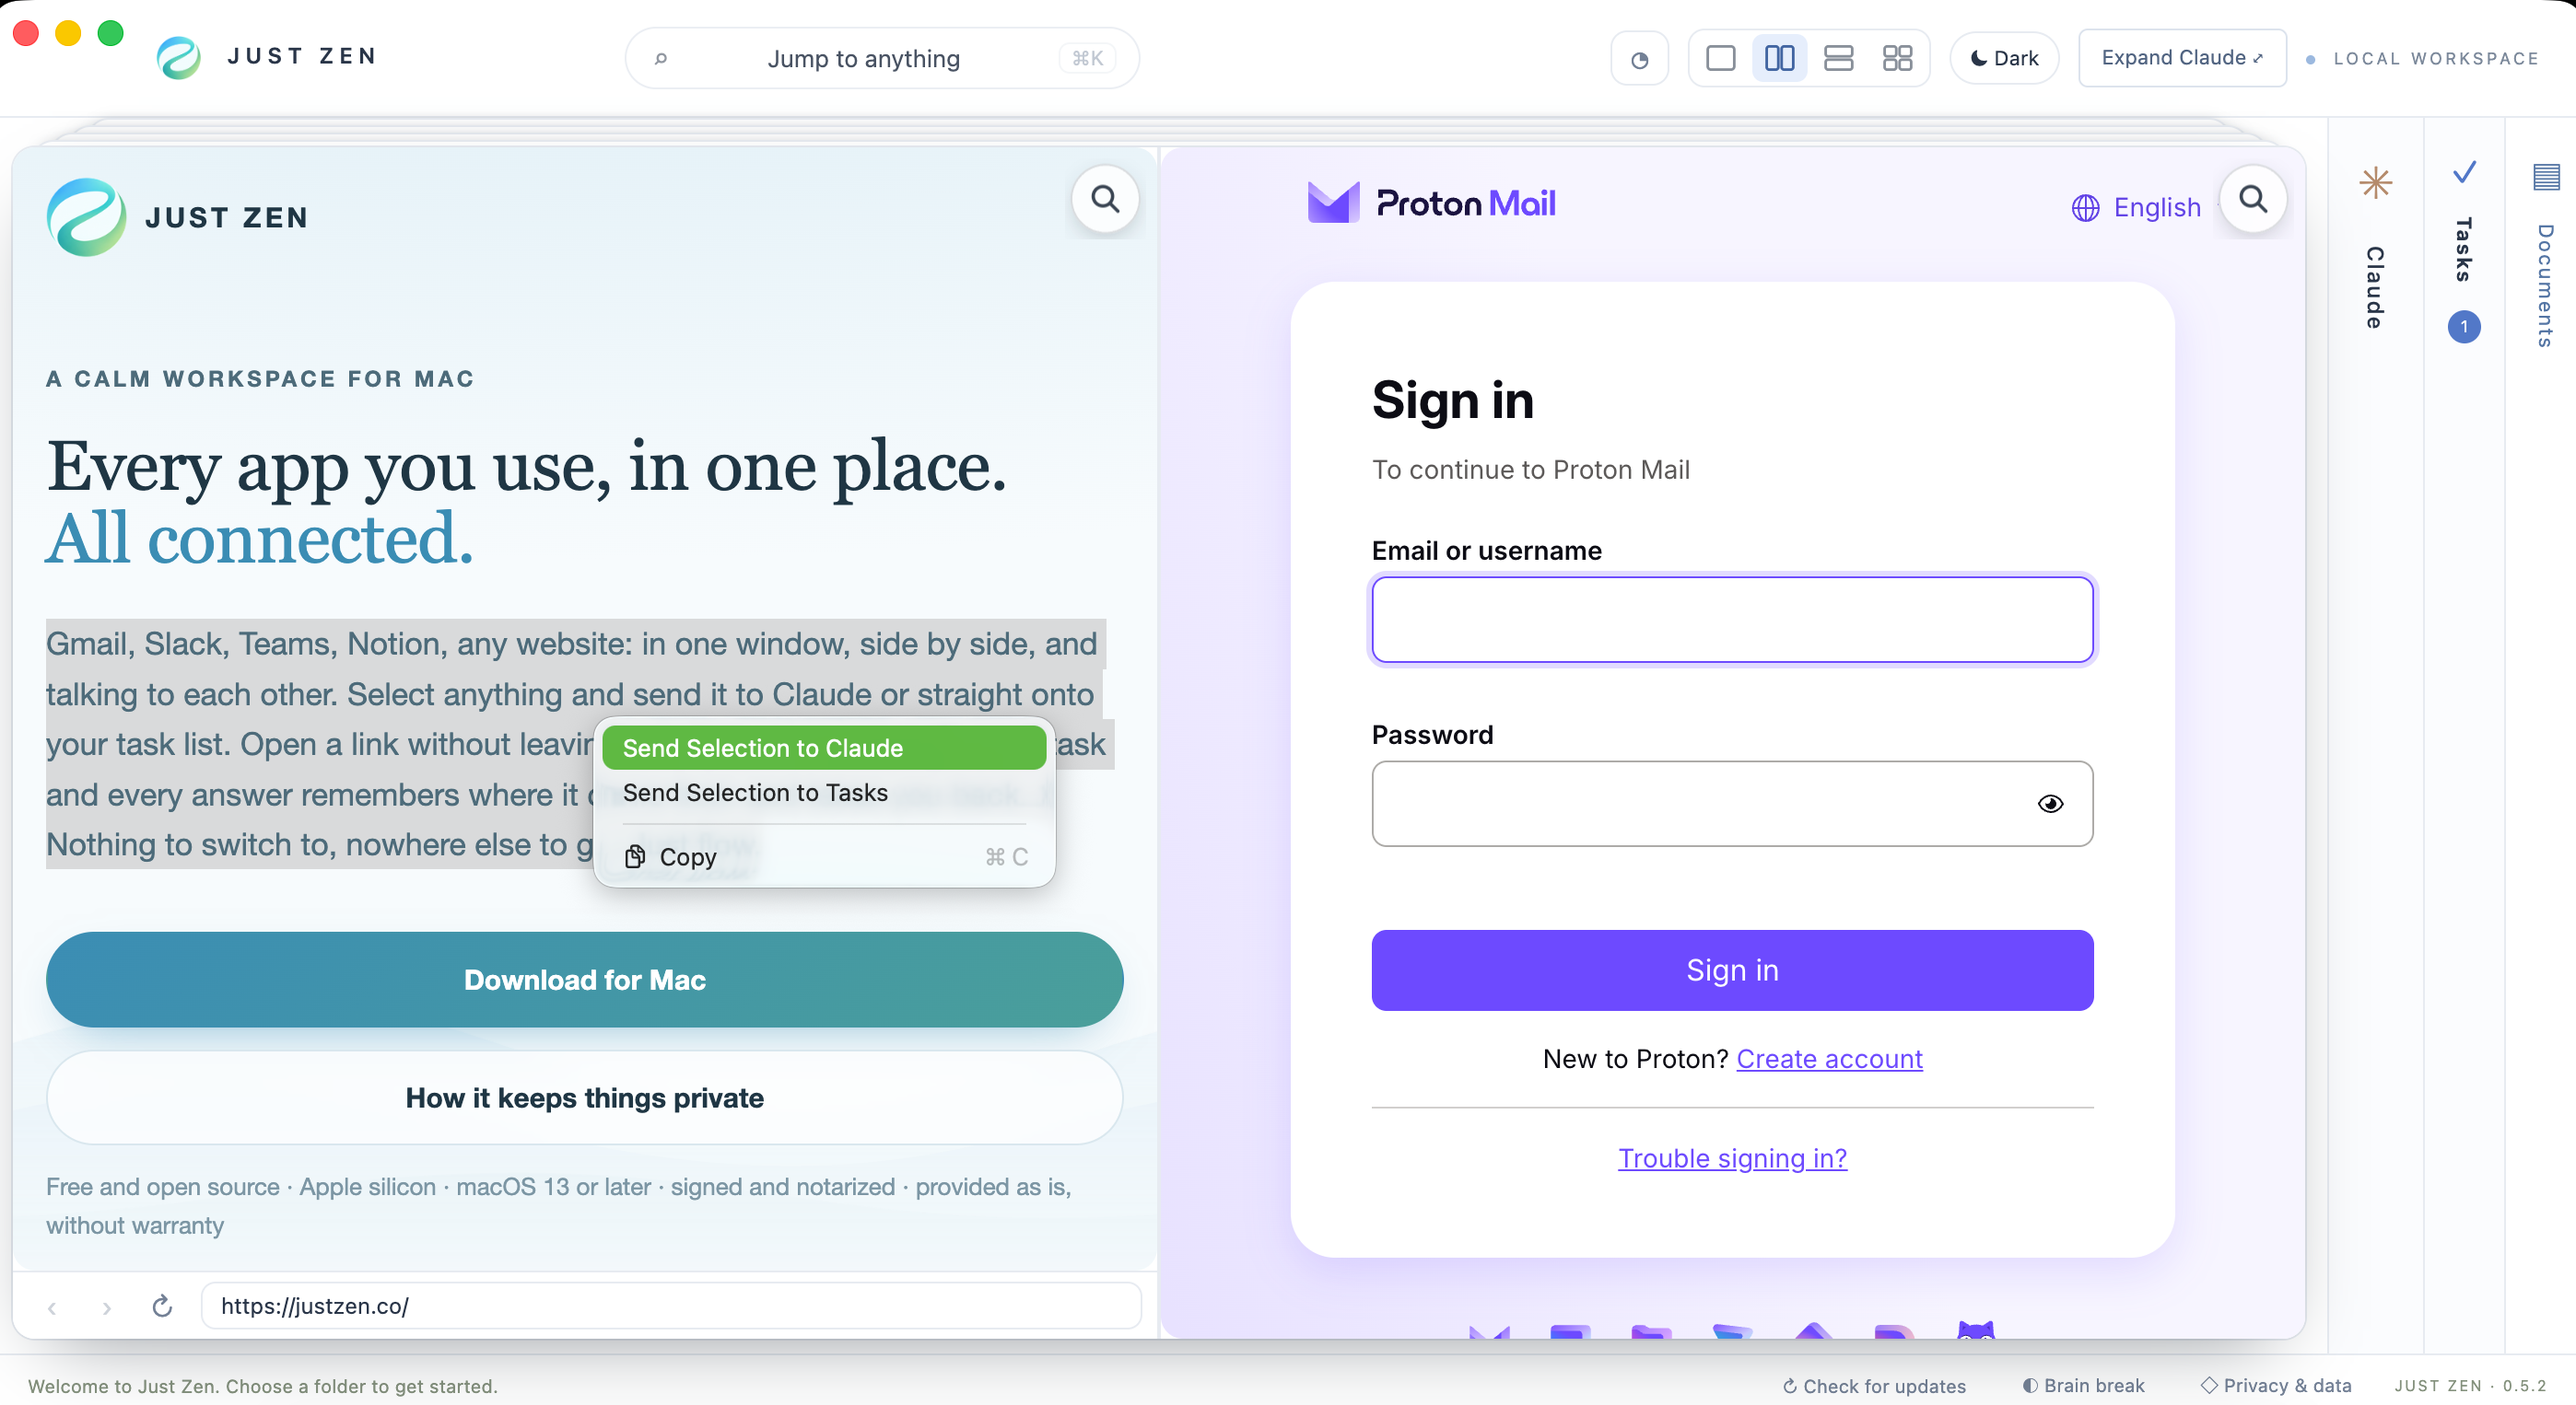
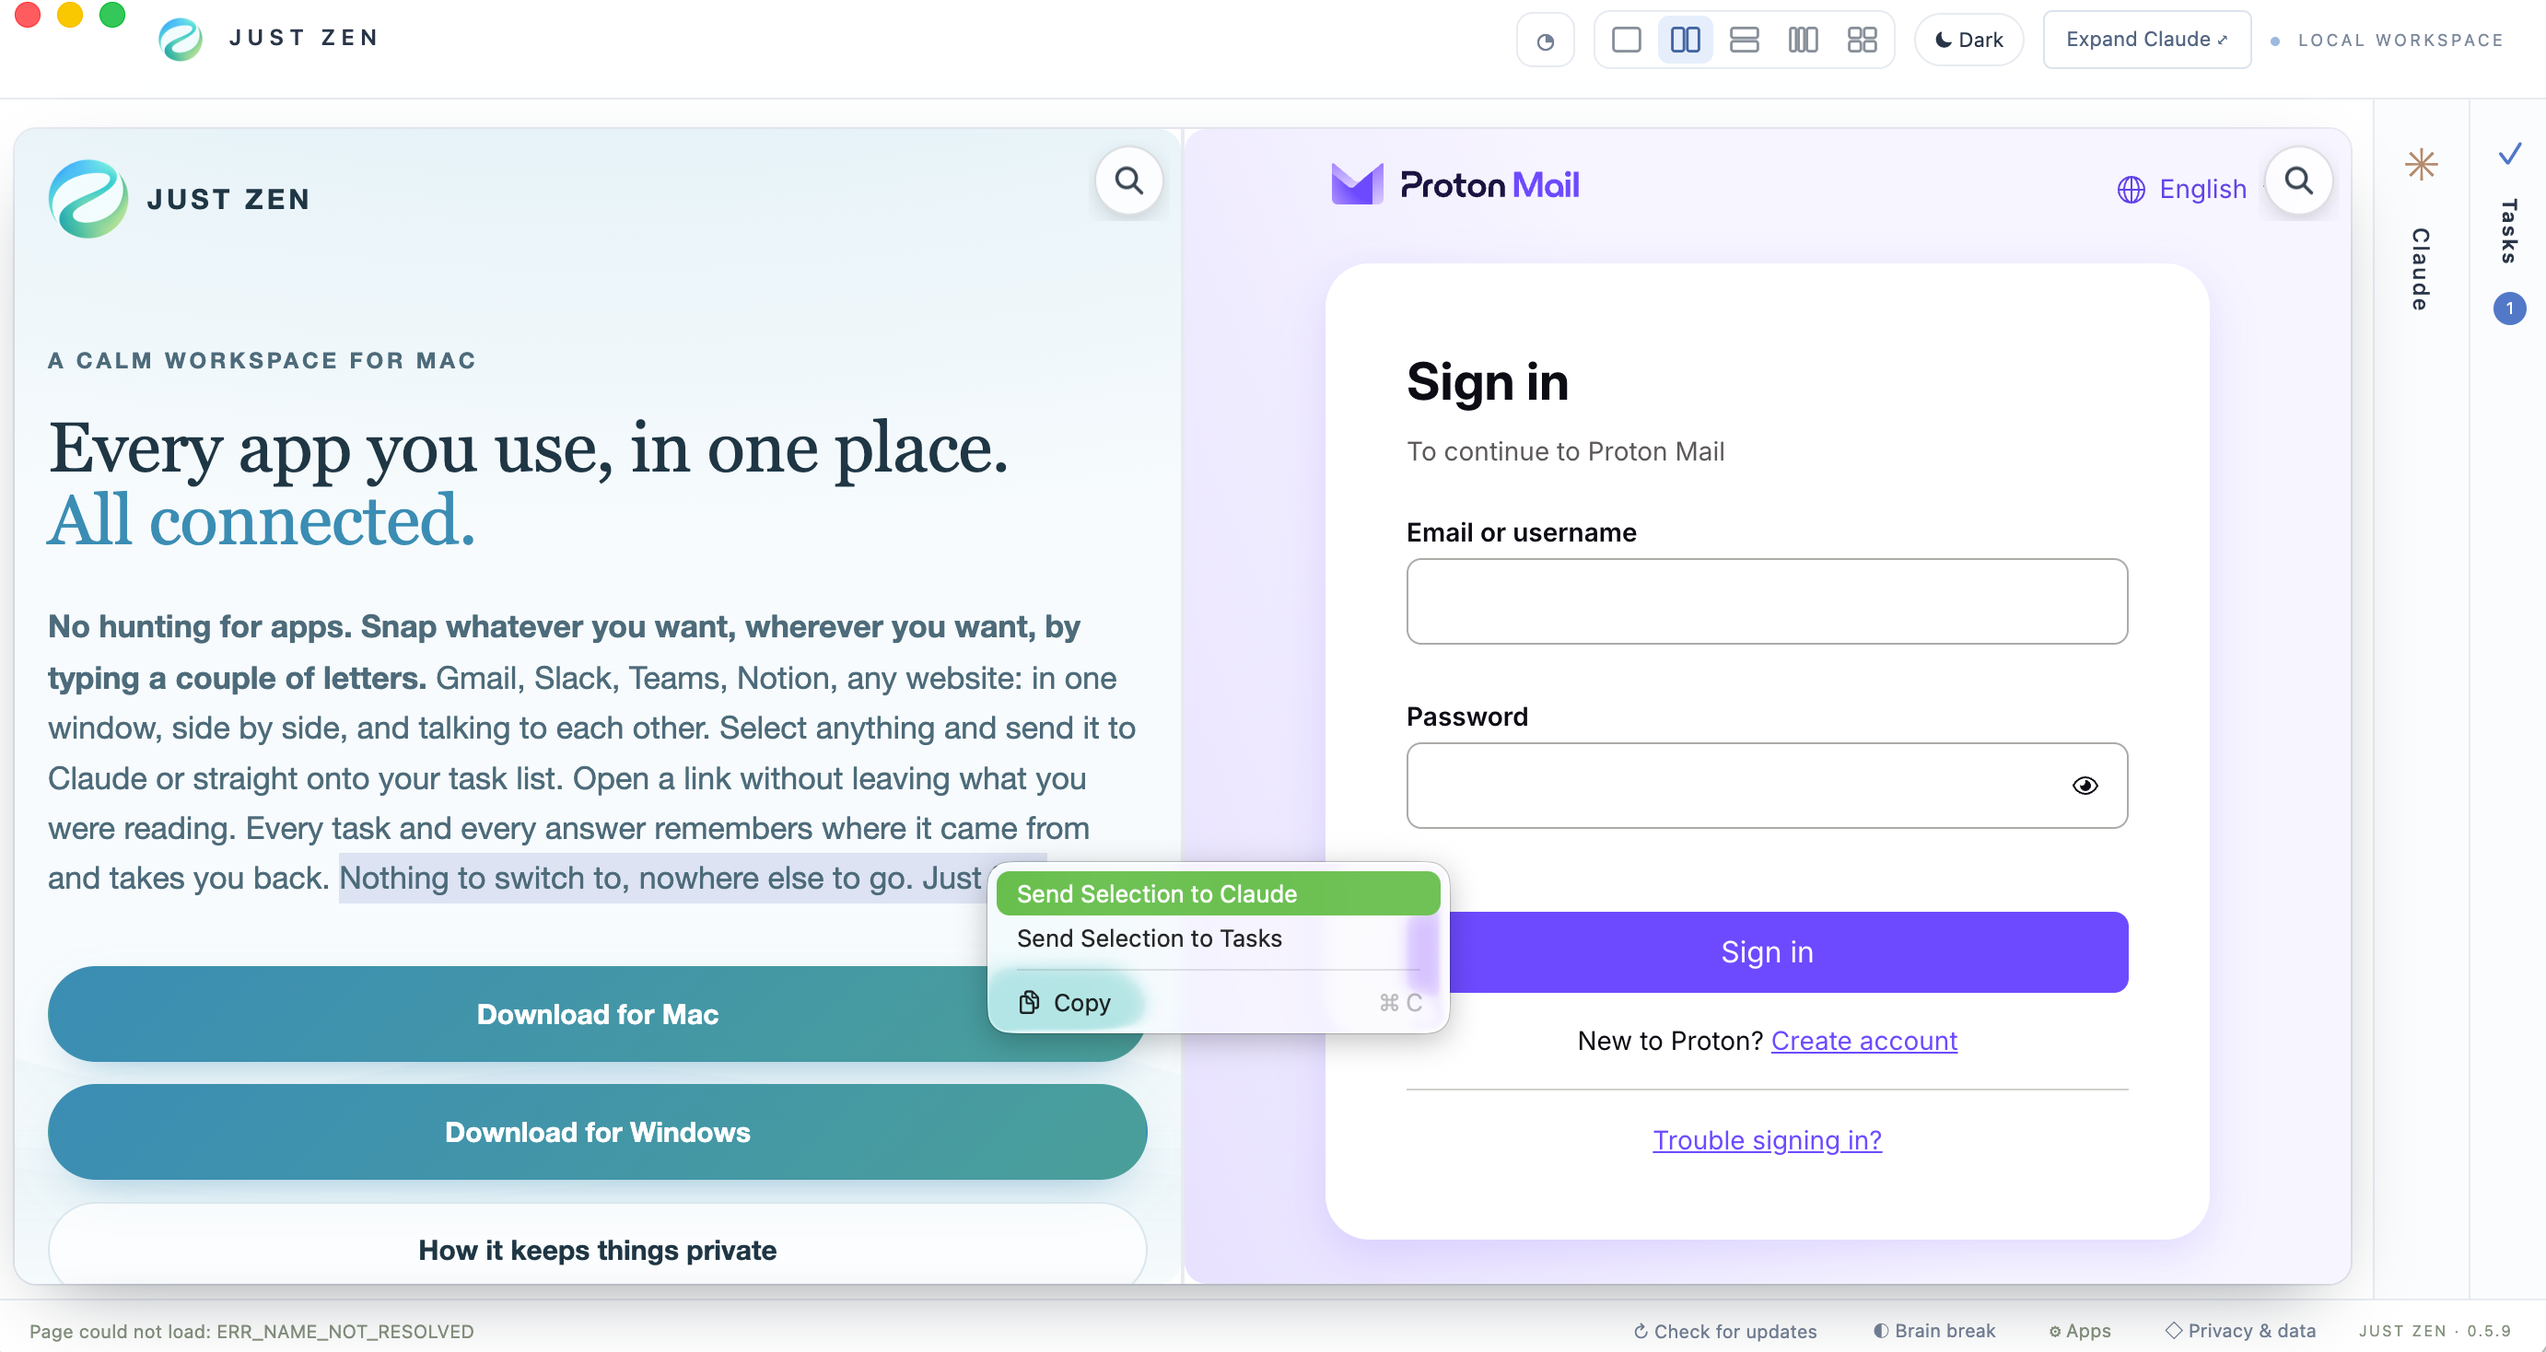
Landing page: new hero screenshot (two panes, Mac and Windows download buttons), tour regions retargeted

diff --git a/docs/index.html b/docs/index.html
@@ -38,7 +38,7 @@
   <div class="tour-head"><div class="tabs" role="tablist" aria-label="Parts of the window"></div></div>
   <div class="frame">
     <div class="bar"><i></i><i></i><i></i></div>
-    <div class="pic"><img src="hero.png?v=5" alt="Just Zen: two panes side by side, the justzen.co page on the left with text selected and a right-click menu offering Send Selection to Claude and Send Selection to Tasks, Proton Mail sign-in on the right, a search button in the corner of each pane, and the Claude, Tasks and Documents rails on the right" width="1398" height="763">
+    <div class="pic"><img src="hero.png?v=6" alt="Just Zen: two panes side by side, the justzen.co page on the left with text selected and a right-click menu offering Send Selection to Claude and Send Selection to Tasks, Proton Mail sign-in on the right, a search button in the corner of each pane, and the Claude and Tasks rails on the right" width="1382" height="734">
     <div class="spot" aria-hidden="true" hidden></div></div>
   </div>
   <div class="caption" aria-live="polite"><b></b><p></p></div>
@@ -47,14 +47,12 @@
 (()=>{
   // Regions are percentages of the screenshot, so the highlight lands on the same part at any size.
   const stops=[
-    ['Search, don\u2019t switch',{x:41.3,y:11,w:3.6,h:6.2},'No dock and no menus. Every pane has a ⌕ in its corner: type a couple of letters, press Enter, and the app snaps into that pane. New apps and websites are added from the same place.'],
-    ['Panes',{x:0.6,y:10.3,w:88.8,h:84.5},'One app, two side by side, two stacked, or four. Each pane has its own search, so you put whatever you want wherever you want, and each keeps its own tabs and login.'],
-    ['Splits',{x:65.9,y:1.8,w:9.2,h:4.6},'Split the window with one click, and save layouts you come back to: Inbox zero, Standup, Client A.'],
-    ['Browser panes',{x:0.6,y:90.6,w:44.3,h:4.4},'A browser pane keeps an address bar along its bottom edge. Every other app shows nothing but the app.'],
-    ['Send anywhere',{x:23,y:51,w:18.2,h:12.4},'Select text in any app and right-click: send it to Claude, or straight onto your task list. The task remembers where it came from.'],
-    ['Claude',{x:90.4,y:6.5,w:3.5,h:89},'Claude Code lives in the right-hand rail. Selected text lands there with one-click actions, and its replies can add tasks, draft messages into your apps and open links.'],
-    ['Tasks',{x:94,y:6.5,w:3.2,h:89},'Your task list slides out from the right rail and stays one click away. Each task keeps a ↩ link back to the tab it came from.'],
-    ['Documents',{x:97.3,y:6.5,w:2.7,h:89},'Open PDFs and Word files beside your apps, annotate them and save a copy, without leaving the window.']
+    ['Search, don\u2019t switch',{x:42.9,y:10.6,w:3,h:5.8},'No dock and no menus. Every pane has a ⌕ in its corner: type a couple of letters, press Enter, and the app snaps into that pane. New apps and websites are added from the same place.'],
+    ['Panes',{x:0.6,y:9.4,w:91.6,h:85.7},'One app, two side by side, two stacked, three columns, or four. Each pane has its own search, so you put whatever you want wherever you want, and each keeps its own tabs and login.'],
+    ['Splits',{x:62.6,y:0.9,w:11.8,h:4.2},'Split the window with one click, and save layouts you come back to: Inbox zero, Standup, Client A.'],
+    ['Send anywhere',{x:38.9,y:64.3,w:18,h:11.8},'Select text in any app and right-click: send it to Claude, or straight onto your task list. The task remembers where it came from.'],
+    ['Claude',{x:93.3,y:9.4,w:3.7,h:85.7},'Claude Code lives in the right-hand rail. Choose any open pane, document or note from the About dropdown and ask; selected text lands there with one-click actions, and replies can add tasks, draft messages into your apps and open links.'],
+    ['Tasks',{x:97.1,y:9.4,w:2.9,h:85.7},'Your task list slides out from the right rail and stays one click away. Each task keeps a ↩ link back to the tab it came from.']
   ];
   const tabs=document.querySelector('#tour .tabs'),spot=document.querySelector('#tour .spot'),title=document.querySelector('#tour .caption b'),text=document.querySelector('#tour .caption p');
   let current=0;
